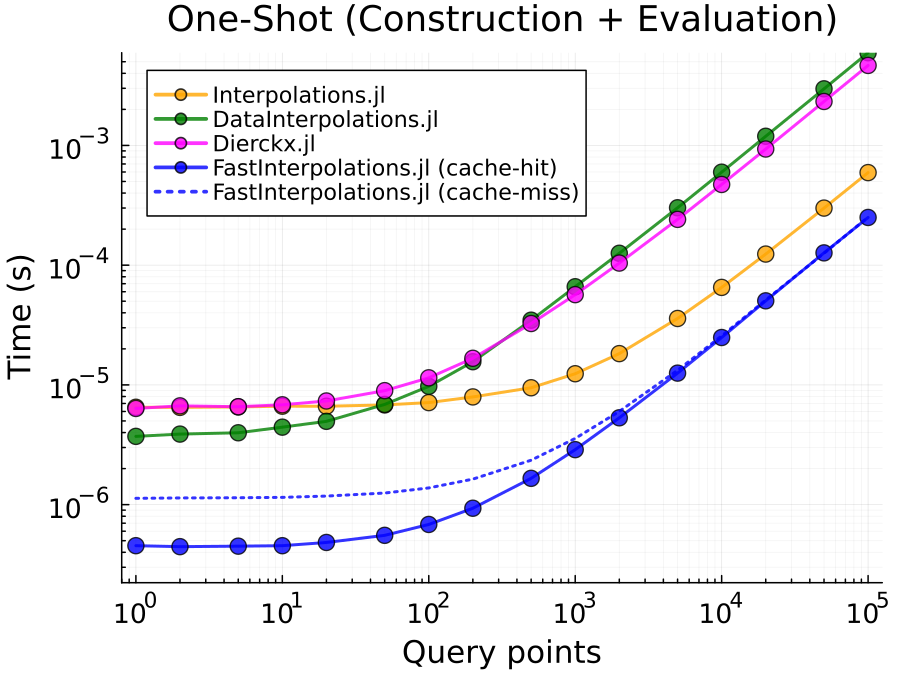
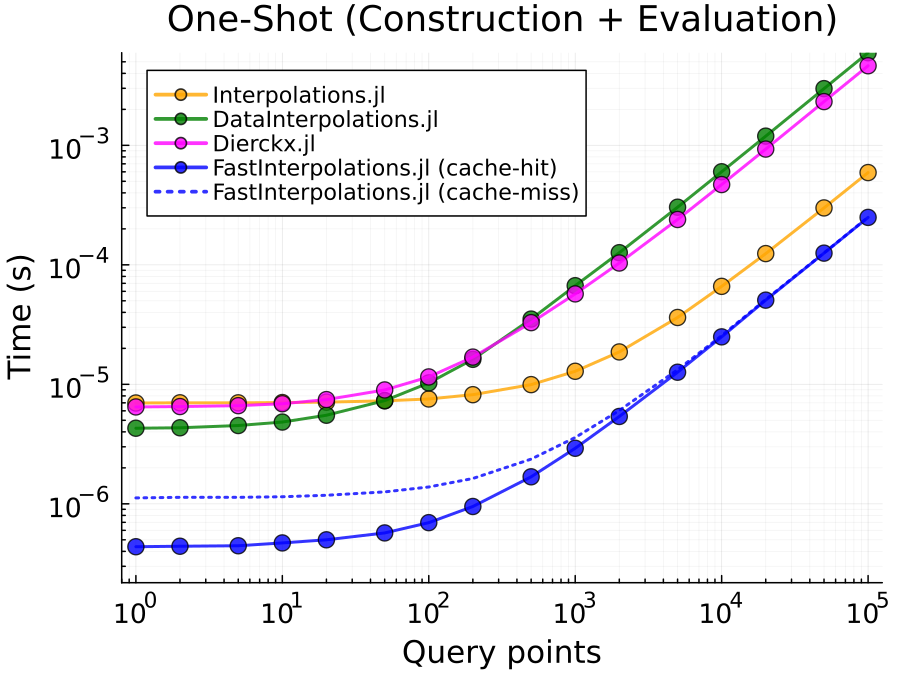
bump version to 0.4.11 and update benchmark results in README.md

diff --git a/README.md b/README.md
@@ -155,13 +155,13 @@ Comparison on a non-uniform 2D rectilinear grid for $f(x, y) = \sin(2\pi x) \cos
 Benchmark comparison against [Interpolations.jl](https://github.com/JuliaMath/Interpolations.jl), [DataInterpolations.jl](https://github.com/SciML/DataInterpolations.jl), and [Dierckx.jl](https://github.com/JuliaMath/Dierckx.jl) for **cubic spline interpolation**.
 <!-- BENCHMARK_VERSIONS_START -->
 > **Env:** Local · macOS 15.7.3 · Apple M1 Pro · Julia 1.12.6<br>
-> **Pkg:** FastInterpolations (v0.4.10) · Interpolations (v0.16.2) · DataInterpolations (v8.9.0) · Dierckx (v0.5.4)
+> **Pkg:** FastInterpolations (v0.4.11) · Interpolations (v0.16.2) · DataInterpolations (v8.10.0) · Dierckx (v0.5.4)
 <!-- BENCHMARK_VERSIONS_END -->
 
 ![One-Shot](docs/images/benchmark_oneshot_detail.png)
 
 <!-- BENCHMARK_SPEEDUP_START -->
-**Speedup:** (2.4 ~ 14.6)× vs `Interpolations.jl` · (8.2 ~ 24.0)× vs `DataInterpolations.jl` · (14.0 ~ 19.7)× vs `Dierckx.jl`
+**Speedup:** (2.4 ~ 16.0)× vs `Interpolations.jl` · (9.8 ~ 24.1)× vs `DataInterpolations.jl` · (14.6 ~ 19.6)× vs `Dierckx.jl`
 <!-- BENCHMARK_SPEEDUP_END -->
 
 One-shot (construction + evaluation) time per call with fixed grid size $n=100$. `FastInterpolations.jl` is significantly faster even on the first call (cache-miss), and becomes even faster on subsequent calls (cache-hit).
